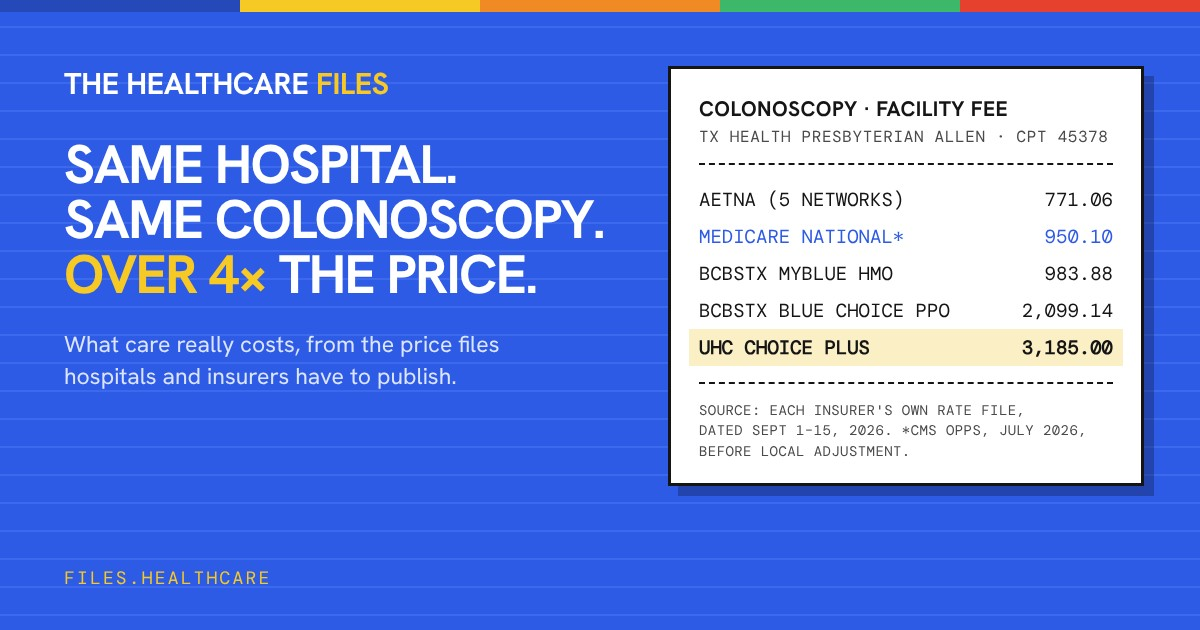
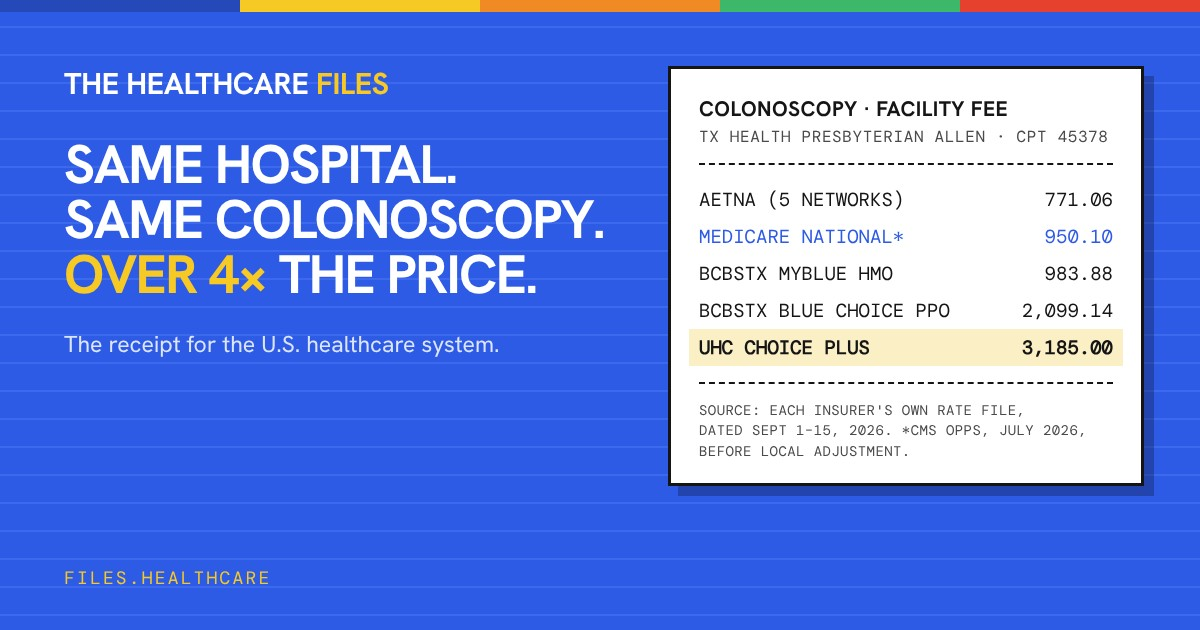
Tagline: The receipt for the U.S. healthcare system (Betsy, Oct 19)
sitewide.py swaps the old line on every page at deploy; home builder and share image updated.

Claude-Session: https://claude.ai/code/session_01G68m4kdgxZ3g7z2E8urtiT

Changed region(s): [[0.0308, 0.5127, 0.4317, 0.6333]]

diff --git a/site/assets/og-source.html b/site/assets/og-source.html
@@ -20,7 +20,7 @@ h1{font:900 54px/1.02 H;letter-spacing:-.03em;text-transform:uppercase;margin-to
 <div class="bar"><i style="background:#2E5BE6;filter:brightness(.8)"></i><i style="background:#F7C925"></i><i style="background:#F08A24"></i><i style="background:#3DB86B"></i><i style="background:#E6402E"></i></div>
 <div class="l"><div class="brand">The Healthcare <b>Files</b></div>
 <h1>Same hospital.<br>Same colonoscopy.<br><em>Over 4×</em> the price.</h1>
-<p class="tag">What care really costs, from the price files hospitals and insurers have to publish.</p></div>
+<p class="tag">The receipt for the U.S. healthcare system.</p></div>
 <div class="url">files.healthcare</div>
 <div class="r"><div class="h">Colonoscopy · facility fee</div><div class="s">TX HEALTH PRESBYTERIAN ALLEN · CPT 45378</div><hr>
 <div class="row"><span>AETNA (5 NETWORKS)</span><span>771.06</span></div>

diff --git a/site/sitewide.py b/site/sitewide.py
@@ -8,7 +8,8 @@
 2. Units look, built in: /units.css (the Units rules from /looks/looks.css, with their fonts) is linked from every
    page, and every page's <html> carries data-look="units" data-theme="light". The preview's look switcher
    (functions/_middleware.js, /looks/) is optional now: turning it off (LOOKS_OFF) or removing the password keeps Units.
-3. Share image: site/assets/og.jpg (made from site/assets/og-source.html) is copied to /og.jpg.
+3. Tagline (Oct 19): "The receipt for the U.S. healthcare system." replaces the older line on every page (OLD_TAGLINES).
+4. Share image: site/assets/og.jpg (made from site/assets/og-source.html) is copied to /og.jpg.
 Idempotent; only files that change are rewritten.
 """
 import os
@@ -19,7 +20,8 @@ import sys
 HERE = os.path.dirname(os.path.abspath(__file__))
 sys.path.insert(0, HERE)
 NAME = 'The Healthcare Files'
-TAGLINE = 'What care really costs, from the price files hospitals and insurers have to publish.'
+OLD_TAGLINES = ['What care really costs, from the price files hospitals and insurers have to publish.']
+TAGLINE = 'The receipt for the U.S. healthcare system.'   # Betsy, Oct 19: her Sept 30 framing, "the receipt for the U.S. healthcare system"
 RENAME = [('What It <span>Costs</span>', 'The Healthcare <span>Files</span>'), ('What It Costs', NAME), ('WHAT IT COSTS', NAME.upper())]
 LINK = '<link rel="stylesheet" href="/units.css">'
 SRCJS = '<script src="/hcf-src.js" defer></script>'   # warns before a source link starts a giant file download (Oct 19)
@@ -109,6 +111,9 @@ def apply(d):
                 if 'What It' in t or 'WHAT IT COSTS' in t:
                     for a, b in RENAME:
                         t = t.replace(a, b)
+                for old in OLD_TAGLINES:   # tagline swap (Oct 19) reaches pages built before the change
+                    if old in t:
+                        t = t.replace(old, TAGLINE)
                 if 'The Healthcare Files</a>' in t:
                     t = BRAND_RX.sub(BRAND_TO, t)
                 if f.endswith(('.html', '.htm')):

diff --git a/site/procedure_pages.py b/site/procedure_pages.py
@@ -1450,7 +1450,7 @@ def national_section(areas, summaries, procs, n_rates_note):
 </style>
 <section data-view="home">
 <div class="board"><div class="wrap">
-<p class="hcf-tagline" style="font-size:18px;font-weight:600;line-height:1.4;color:var(--hi);margin:0;max-width:40em">What care really costs, from the price files hospitals and insurers have to publish.</p>
+<p class="hcf-tagline" style="font-size:18px;font-weight:600;line-height:1.4;color:var(--hi);margin:0;max-width:40em">The receipt for the U.S. healthcare system.</p>
 <h1 class="letters">What is this going to <em>cost me?</em></h1>
 {home_bits.LEDE}
 <form class="nat-search" id="natForm" action="/costs/" method="get">
